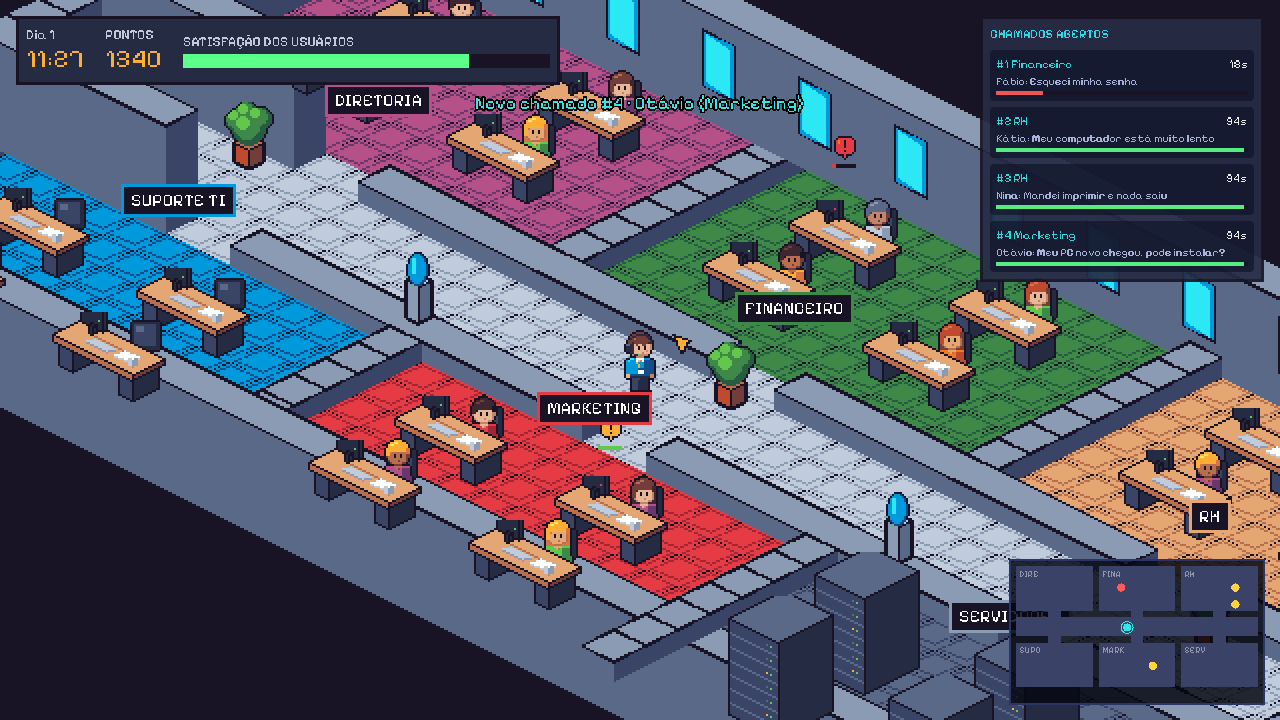
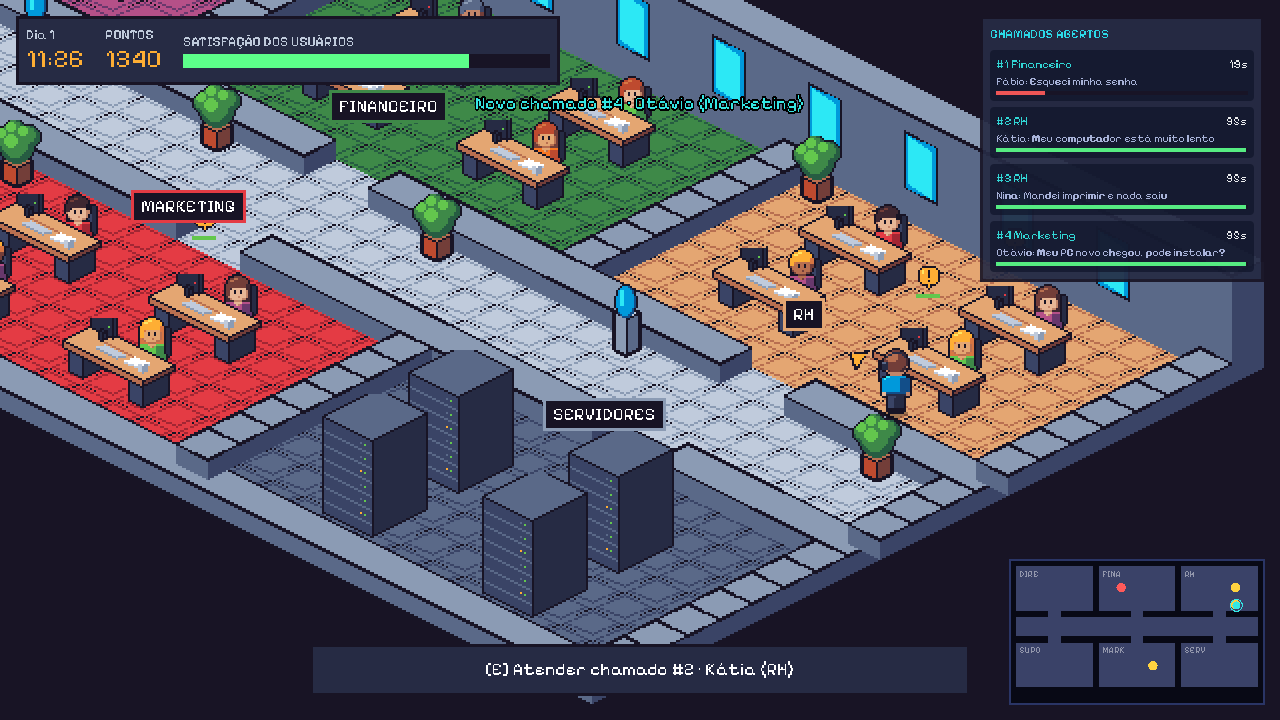
Cenário revisado e chamado de hardware no lugar de redes
- Corrige paredes: só as do fundo do andar são altas; antes a borda da
  frente inteira virava parede alta e escondia as salas da frente
- Decoração encostada na parede do fundo do corredor e uma planta no
  canto de cada sala
- Testes de cenário: nada fora das salas, portas livres, toda mesa
  alcançável e nenhuma parede alta na frente
- Chamado de rede trocado por defeito de hardware (RAM, fonte, cabo de
  vídeo, cooler, bateria da placa-mãe, HD, teclado), adequado ao
  1º semestre
- tests/overview.gd renderiza o andar inteiro para revisão

Claude-Session: https://claude.ai/code/session_01ULB8X8jtmR9iGJQHphwBcx

diff --git a/README.md b/README.md
@@ -1,8 +1,14 @@
 # Chamado Aberto
 
-Jogo 2D educativo em **pixel art isométrica**, feito em **Godot 4.3**. Você é o **técnico de TI** do 7º andar de uma grande empresa: anda pelo escritório **com o teclado**, chega nas mesas com chamado aberto e resolve o problema antes que o prazo (SLA) estoure. Os problemas são os do **dia a dia de um técnico de suporte**.
+Jogo 2D educativo em **pixel art isométrica**, feito em **Godot 4.3**. Você é o **técnico de TI** do 7º andar de uma grande empresa: anda pelo escritório **com o teclado**, chega nas mesas com chamado aberto e resolve o problema antes que o prazo (SLA) estoure. Os problemas são os do **dia a dia de um técnico de suporte**, no nível do 1º semestre do curso técnico em informática.
 
 ![Escritório](docs/jogo.png)
+
+<details><summary>Mapa do andar inteiro</summary>
+
+![Andar](docs/andar.png)
+
+</details>
 
 ## Como jogar
 
@@ -27,7 +33,7 @@ Jogo 2D educativo em **pixel art isométrica**, feito em **Godot 4.3**. Você é
 
 | O usuário diz | Minijogo | O que se aprende |
 |---|---|---|
-| "Estou sem internet" | ler a saída do `ipconfig`/`ping` e apontar a causa | cabo solto, DHCP (169.254.x.x), DNS, gateway, modo avião, IP duplicado |
+| "Meu PC não liga direito" | ler o sintoma e descobrir a peça com defeito | memória RAM, fonte, cabo de vídeo, cooler, bateria da placa-mãe, HD, teclado |
 | "A impressora não imprime" | ler o painel e aplicar só o que resolve | papel atolado, sem papel, toner, offline, fila travada |
 | "Esqueci minha senha" | confirmar a identidade e escolher uma senha válida | política de senha forte e boas práticas de segurança |
 | "Meu PC está lento" | Gerenciador de Tarefas: finalizar só o que pesa | não fechar processos do Windows nem o antivírus |
@@ -51,7 +57,7 @@ godot --headless --path . -s tests/test_camera.gd
 ```
 
 - `test_logic.gd`: política de senha e consistência dos dados dos chamados.
-- `test_game.gd`: abre cada tipo de chamado e o resolve **pelo teclado**, inclusive com um erro proposital; testa fim do dia e fim de jogo.
+- `test_game.gd`: confere o cenário (nada fora das salas, portas livres, toda mesa alcançável), abre cada tipo de chamado e o resolve **pelo teclado**, inclusive com um erro proposital; testa fim do dia e fim de jogo.
 - `test_camera.gd`: segura as setas e mede, quadro a quadro, que o técnico fica fixo na tela e o cenário rola sem tremer.
 
 ## Pixel art
@@ -95,5 +101,5 @@ art/                          scripts que geram a pixel art (fonte dos sprites)
 assets/sprites/               sprites gerados
 resources/theme.tres          tema da interface (pixel)
 fonts/                        Pixelify Sans (licença OFL)
-tests/                        testes headless e gerador de capturas
+tests/                        testes headless, gerador de capturas e visão geral do andar (overview.gd)
 ```
